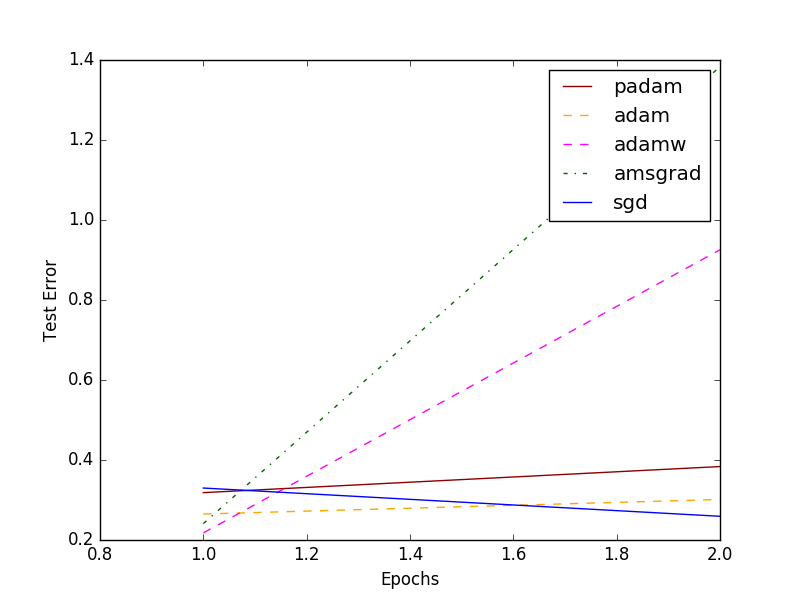
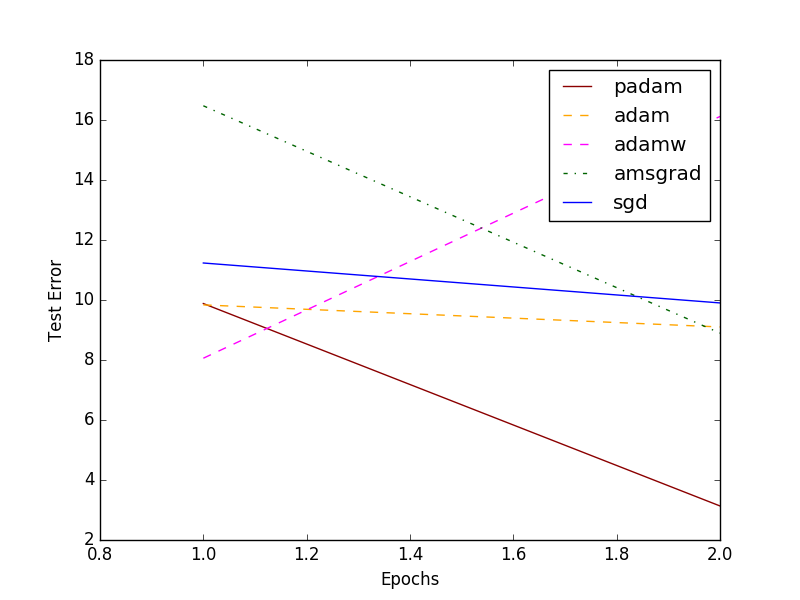
option for using pretraind model

diff --git a/resnet-18/run.py b/resnet-18/run.py
@@ -24,7 +24,7 @@ print(sys.path)
 from amsgrad import AMSGrad
 from padam import Padam
 
-pretrained = False
+pretrained = True
 dataset = 'cifar10'
 
 if dataset == 'cifar10':
@@ -136,14 +136,14 @@ epochs = hp['epoch']
 #(trainX, trainY), (testX, testY) = (trainX[:2], trainY[:2]), (testX[:2], testY[:2] )
 
 trainX = trainX.astype('float32')
-# trainX = (trainX - trainX.mean(axis=0)) / (trainX.std(axis=0))
+
 trainX = trainX/255
 testX = testX.astype('float32')
-# testX = (testX - testX.mean(axis=0)) / (testX.std(axis=0))
+
 testX = testX/255
 
-trainY = kutils.to_categorical(trainY)
-testY = kutils.to_categorical(testY)
+trainY = kutils.to_categorical(trainY, num_classes = hp['classes'])
+testY = kutils.to_categorical(testY, num_classes = hp['classes'])
 print("Image format:",K.image_data_format())
 
 #testY = testY.astype(np.int64)
@@ -206,12 +206,13 @@ for optimizer in optim_array:
     #model(dummy_x)
     #print(model(dummy_x).shape)
     
-    filepath = 'model_'+optimizer+'.h5'
+    filepath = 'model_'+optimizer+'.h5'##################
+    #filepat = 'model_'+optimizer+'_loaded.h5'##############
 
     if pretrained:
         model = load_model(filepath, model)
         model.compile(optimizer=optim, loss='categorical_crossentropy', metrics=['accuracy'], global_step=tf.train.get_global_step())
-    
+        
     else :
         model.compile(optimizer=optim, loss='categorical_crossentropy', metrics=['accuracy'], global_step=tf.train.get_global_step())
         csv_logger = CSVLogger(logfile, append=True, separator=';')
@@ -222,33 +223,51 @@ for optimizer in optim_array:
     scores = model.evaluate_generator(datagen_test.flow(testX, testY, batch_size = batch_size), verbose=1)
     print("Final test loss and accuracy:", scores)
     
-    save_model(filepath, model)
+    save_model(filepath, model)##############
     f.close()
 
 
 
-if (pretrained==False):
-    #train plot      
+if not pretrained:
+
     plt.figure(1)
     for optimizer in optim_array:
         op = optim_params[optimizer]
-        train_loss = history_resnet[optimizer].history['loss']
+        train_loss = history[optimizer].history['loss']
         epoch_count = range(1, len(train_loss) + 1)
         plt.plot(epoch_count, train_loss, color=op['color'], linestyle=op['linestyle'])
     plt.legend(optim_array)
     plt.xlabel('Epochs')
     plt.ylabel('Train Loss')
+    plt.savefig('figure_'+dataset+'_train_loss.png')
     
     #test plot
     plt.figure(2)
     for optimizer in optim_array:
         op = optim_params[optimizer]
-        test_loss = history_resnet[optimizer].history['val_loss']
-        epoch_count = range(1, len(test_loss) + 1)
-        plt.plot(epoch_count, test_loss, color=op['color'], linestyle=op['linestyle'])
+        test_error = []
+        for i in history[optimizer].history['val_acc']:
+            test_error.append(1-i)
+        epoch_count = range(1, len(test_error) + 1)
+        plt.plot(epoch_count, test_error, color=op['color'], linestyle=op['linestyle'])
     plt.legend(optim_array)
     plt.xlabel('Epochs')
     plt.ylabel('Test Error')
     
-    #plt.show()
-    plt.savefig('figure_'+dataset+'.png')
+    # plt.show()
+    plt.savefig('figure_'+dataset+'_test_error_top_1.png')
+    
+    #test plot
+    plt.figure(3)
+    for optimizer in optim_array:
+        op = optim_params[optimizer]
+        test_error = []
+        for i in history[optimizer].history['val_top_k_categorical_accuracy']:
+            test_error.append(1-i)
+        epoch_count = range(1, len(test_error) + 1)
+        plt.plot(epoch_count, test_error, color=op['color'], linestyle=op['linestyle'])
+    plt.legend(optim_array)
+    plt.xlabel('Epochs')
+    plt.ylabel('Test Error')
+    
+    plt.savefig('figure_'+dataset+'_test_error_top_5.png')

diff --git a/resnet-18/eager_resnet.py b/resnet-18/eager_resnet.py
@@ -204,7 +204,7 @@ class Resnet(tf.keras.Model):
         #print(inputs.shape)
         
         
-        inputs = tf.keras.layers.Dense(self.classes, kernel_regularizer=regularizers.l2(self.wd))#, kernel_initializer =tf.keras.initializers.VarianceScaling(scale=1.0/3, mode='fan_in', distribution='uniform', seed=None)
+        inputs = tf.keras.layers.Dense(self.classes, kernel_regularizer=regularizers.l2(self.wd))(inputs)#, kernel_initializer =tf.keras.initializers.VarianceScaling(scale=1.0/3, mode='fan_in', distribution='uniform', seed=None)
                                            #, bias_initializer = tf.keras.initializers.VarianceScaling(scale=1.0/3, mode='fan_in', distribution='uniform', seed=None))(inputs)
 
         #print(inputs)
